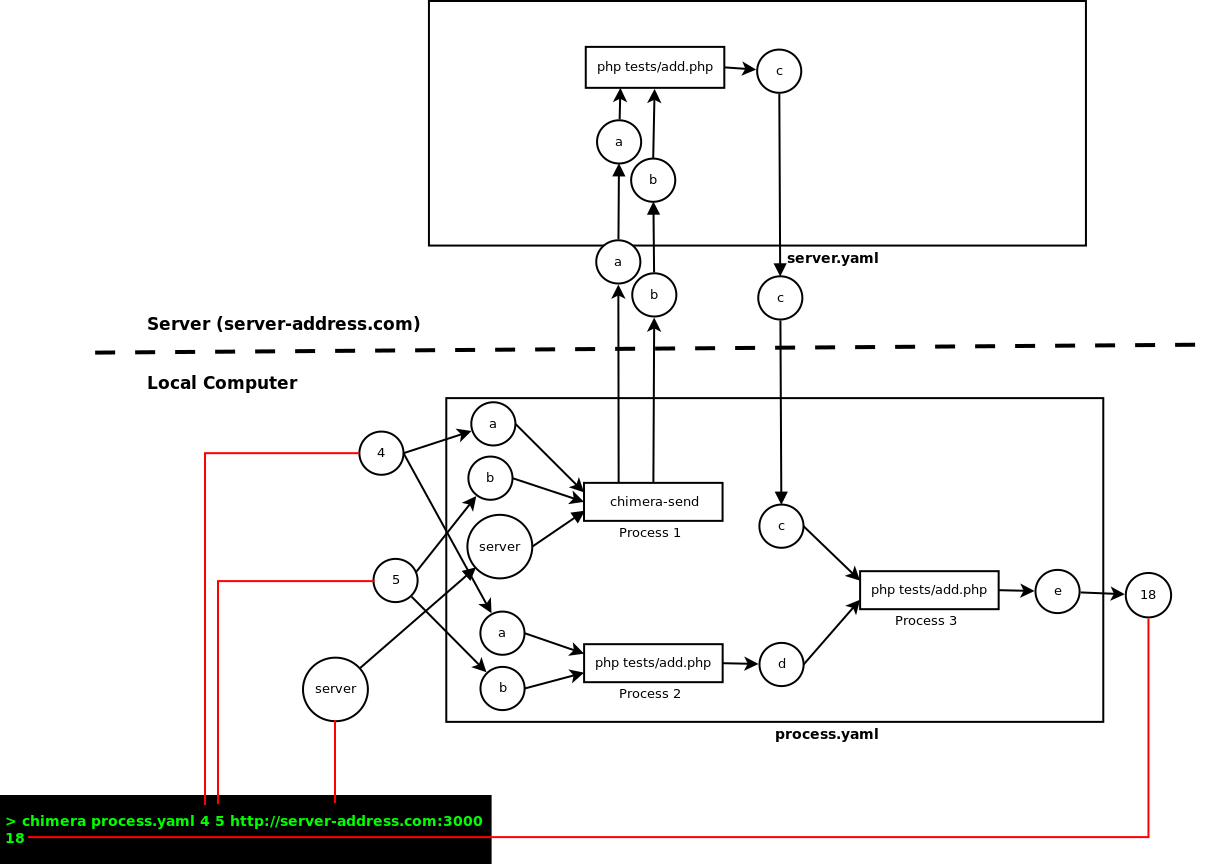
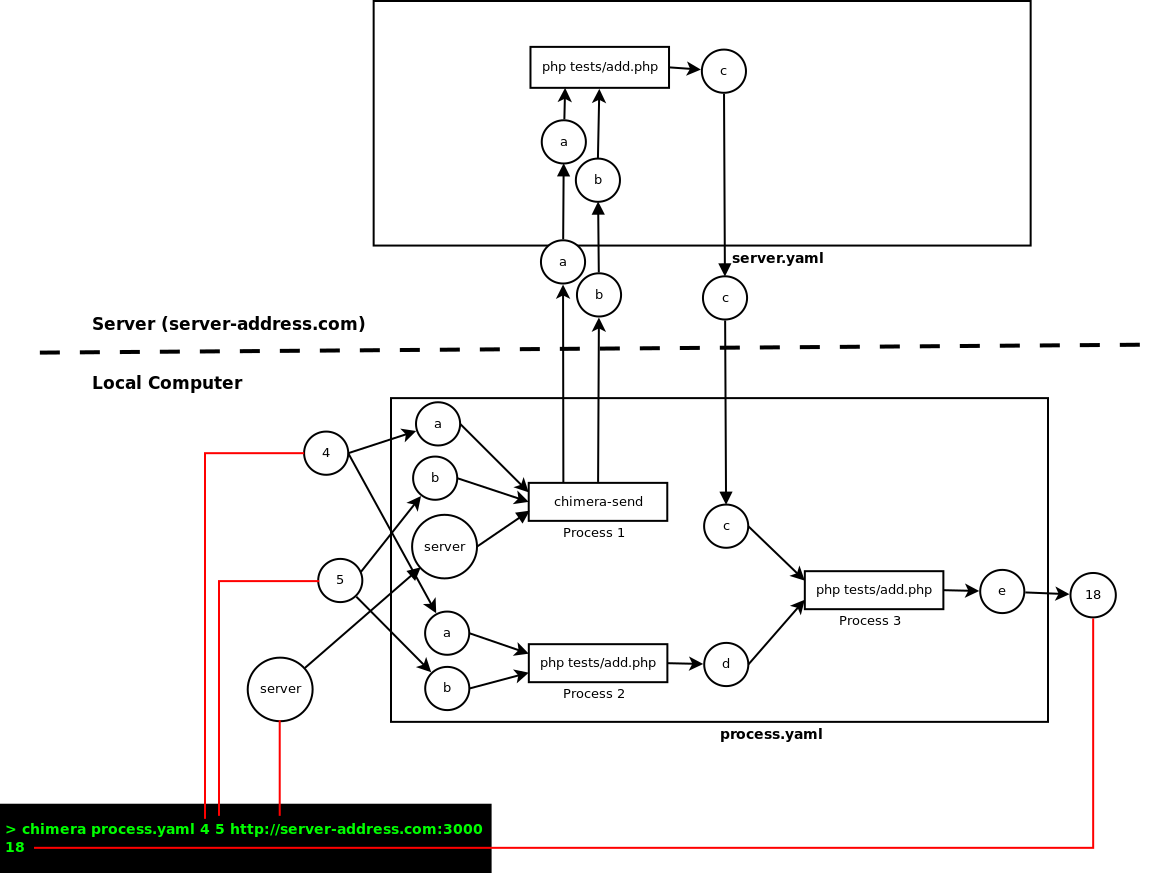
add flowchart

Changed region(s): [[0.0, 0.0, 0.9957, 1.0], [0.3111, 0.0, 0.3734, 0.0312]]

diff --git a/README.md b/README.md
@@ -257,29 +257,9 @@ The first process (`(a, delta) -> node programs/add.js -> a`) take `a` and `delt
 
 Once the first process completed (or ignored in case of the initial condition unmet), the second process (`(a, delta) -> node programs/substract.js -> a`) will be executed. The second process will only be executed if `a > 10`.
 
-The process above is logically equal to this pseudo-code (well, actually this is Python):
+The process above is logically equal to this flowchart: 
 
-```python
-delta = 1
-a = input()
-
-# First process
-if a < 10:
-    # Well, it is actually do-while,
-    # Python just strangely doesn't have do-while
-    # so here we go...
-    while True:
-        a = read_output_of('node programs/add.js ' + a + ' ' + delta)
-        if not (a<8):
-            break
-
-# Second process
-if a > 10:
-    a = read_output_of('node programs/substract.js ' + a + ' ' + delta)
-
-# now, show the output
-print a
-```
+![chimera-control-flowchart](doc/chimera-control-flowchart.png)
 
 __Note:__ Use this feature with care. Don't over do it. For a more complex logic-control, please put it on your program.
 
